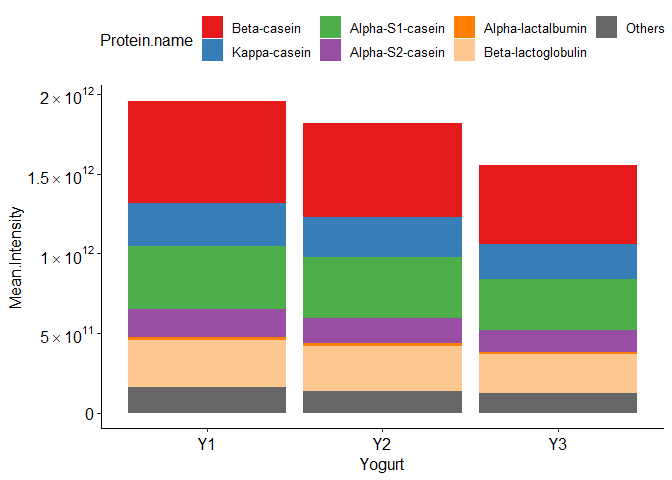
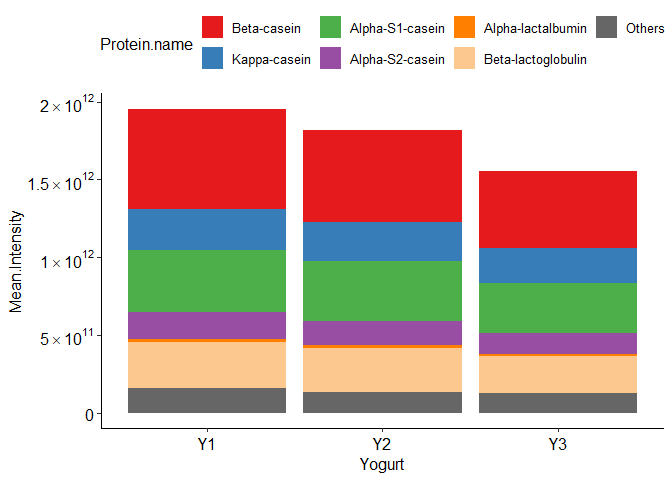
Update README for input data explanation.

diff --git a/README.md b/README.md
@@ -27,6 +27,78 @@ studies. This README introduces the package through three parts:
 - Map parent protein name and protein group for each peptide.
 - Calculate peptide GRAVY scores.
 
+`processPeptides()` accepts each argument either as a file path or as an
+in-memory `data.frame`/`data.table`. When you pass a path, the function
+reads the file with `data.table::fread()`, so tab-, comma-, or
+semicolon-delimited text exports (including the default MaxQuant `.txt`
+peptide export) can be used directly. If your data lives in Excel
+workbooks, import them first (e.g. `openxlsx::read.xlsx()`) and pass the
+resulting table.
+
+#### Required input files
+
+##### 1. MaxQuant peptide export (`peptides_file`)
+
+- Must contain the structural columns used to derive cleavage
+  information and peptide identities.
+- All intensity columns referenced in the metadata file must be present
+  and **numeric** so that replicate means can be computed.
+
+Example:
+
+| Sequence | Leading razor protein | Length | Start position | End position | Amino acid before | First amino acid | Last amino acid | Amino acid after | Intensity Y1G120_1 | Intensity Y1G120_2 | Intensity Y2G120_1 |
+|----|----|----|----|----|----|----|----|----|----|----|----|
+| AAGGPGAPADPGRPT | P81265 | 15 | 609 | 623 | D | A | T | G | 40332000 | 51443000 | 39094000 |
+| AAIDEASKKLNAQ | P15497 | 13 | 253 | 265 | L | A | Q | – | 18167000 | 26893000 | 17524000 |
+
+##### 2. Intensity-column metadata (`intensity_columns_file`)
+
+- Each row maps a single intensity column to the replicate and all
+  associated grouping variables (e.g. digest stage, treatment).
+- The non-`Intensity.column` fields must **uniquely identify** the row;
+  they define the nested grouping structure used to calculate replicate
+  and group summaries.
+- It is recommended to use dots (`.`) instead of spaces in column names
+  for easier programming.
+
+Example:
+
+| Intensity.column   | Digest.stage | Yogurt | Replicate |
+|--------------------|--------------|--------|-----------|
+| Intensity Y1G120_1 | G120         | Y1     | 1         |
+| Intensity Y1G120_2 | G120         | Y1     | 2         |
+| Intensity Y2G120_1 | G120         | Y2     | 1         |
+
+##### 3. Protein mapping (`protein_mapping_file`)
+
+- Provides human-readable protein names and groups for each
+  `Leading.razor.protein` identifier.
+- Missing matches are filled with the fallback levels “Others” and
+  “Whey”.
+- A curated default mapping ships with the package as an in-memory
+  dataset you can load via
+  `data("peptidomics_protein_mapping_example")`.
+
+Example:
+
+| Leading.razor.protein    | Protein.name | Protein.group |
+|--------------------------|--------------|---------------|
+| UNIPROT:A0A452FK23_CAPHI | Beta-casein  | Casein        |
+| UNIPROT:CASB_CAPHI       | Beta-casein  | Casein        |
+| UNIPROT:A0A452G9D9_CAPHI | Kappa-casein | Casein        |
+
+To use the in-memory default mapping file, call:
+
+``` r
+data(peptidomics_protein_mapping_example)
+
+processPeptides(
+  peptides_file = "path/to/your/peptides.txt",
+  intensity_columns_file = "path/to/your/Intensity_columns.csv",
+  protein_mapping_file = peptidomics_protein_mapping_example
+)
+```
+
 ### Filtering & statistics
 
 - **PCA** analysis to pre-check group separation — `pcaPeptides()`.
@@ -101,7 +173,17 @@ result <- processPeptides(
 
 ### 2) Mean peptide intensities by parent proteins
 
-![](README_files/figure-gfm/pressure-1.png)<!-- -->
+``` r
+plot_int(
+  result,
+  x_var         = "Yogurt",
+  type          = "mean",
+  filter_params = list(Digest.stage = "G120"),
+  color_by      = "Protein.name"
+)
+```
+
+![](README_files/figure-gfm/unnamed-chunk-4-1.png)<!-- -->
 
 ### 3) Peptide-length distribution (by intensity)
 
@@ -113,7 +195,7 @@ plot_length_distribution(
 )
 ```
 
-![](README_files/figure-gfm/unnamed-chunk-3-1.png)<!-- -->
+![](README_files/figure-gfm/unnamed-chunk-5-1.png)<!-- -->
 
 ### 4) Cleavage-site intensity (N and/or C termini)
 
@@ -129,7 +211,7 @@ plot_cleavage_site(
 )
 ```
 
-![](README_files/figure-gfm/unnamed-chunk-4-1.png)<!-- -->
+![](README_files/figure-gfm/unnamed-chunk-6-1.png)<!-- -->
 
 ------------------------------------------------------------------------
 
